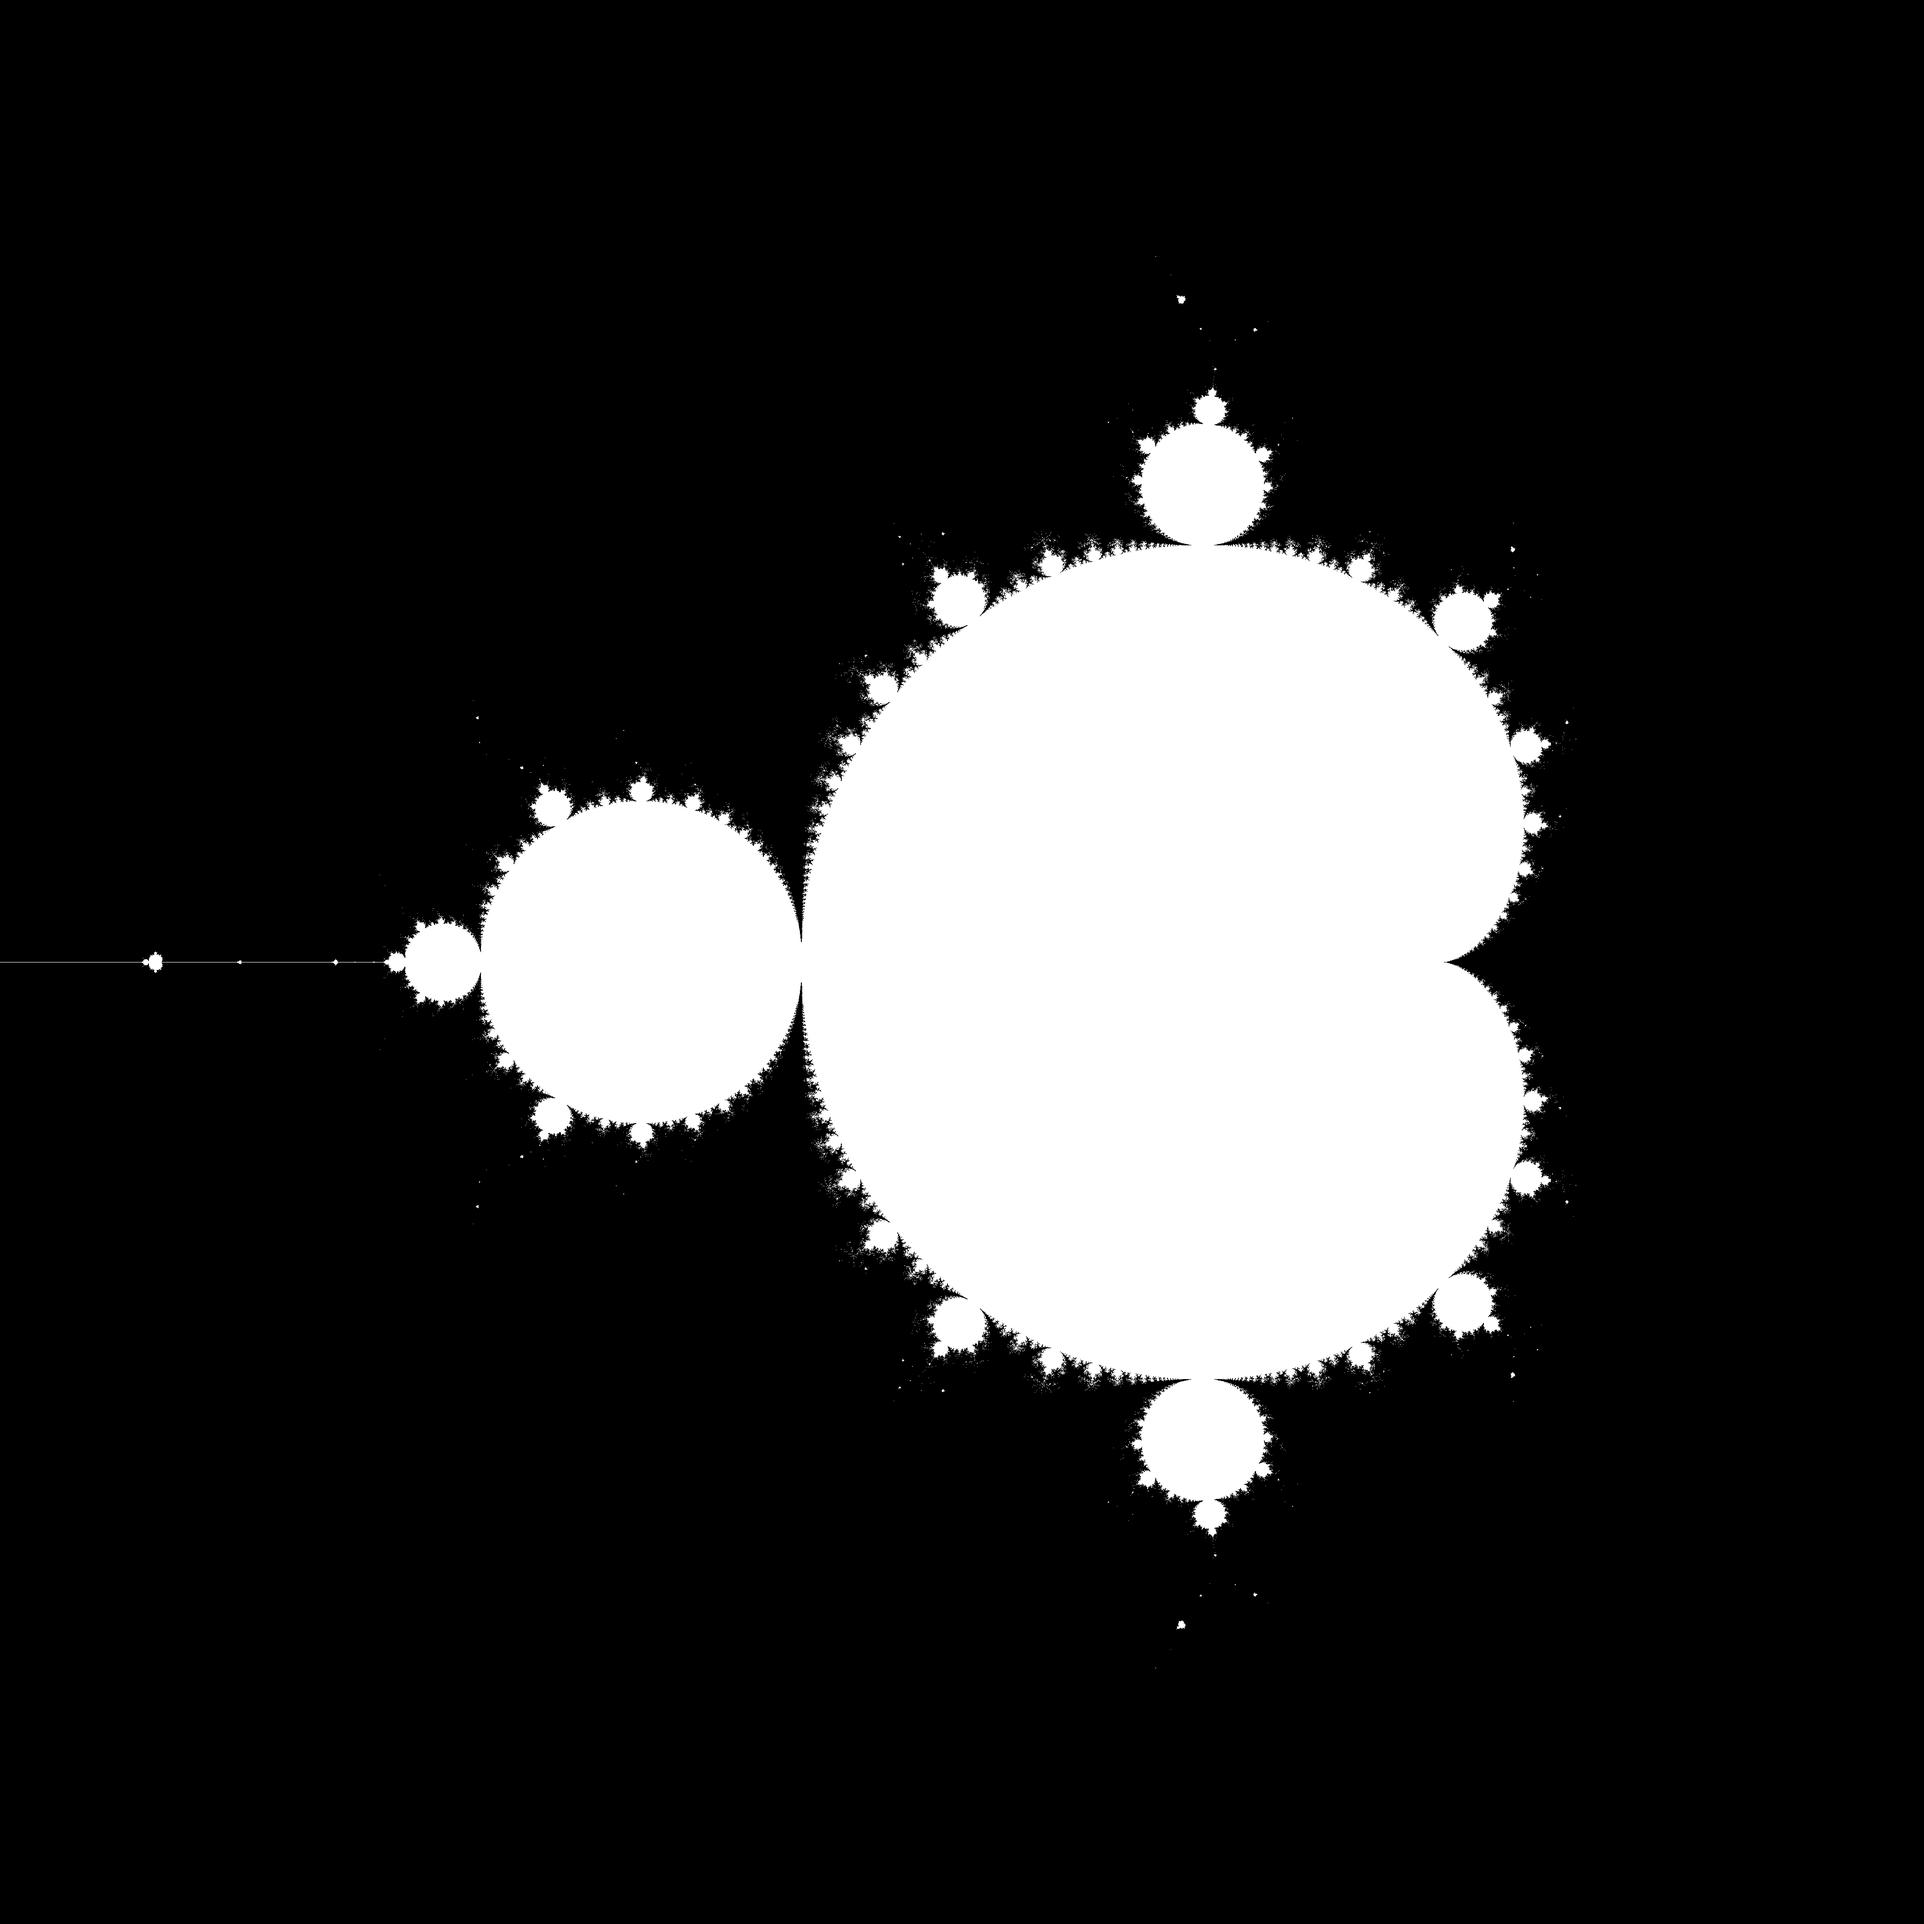
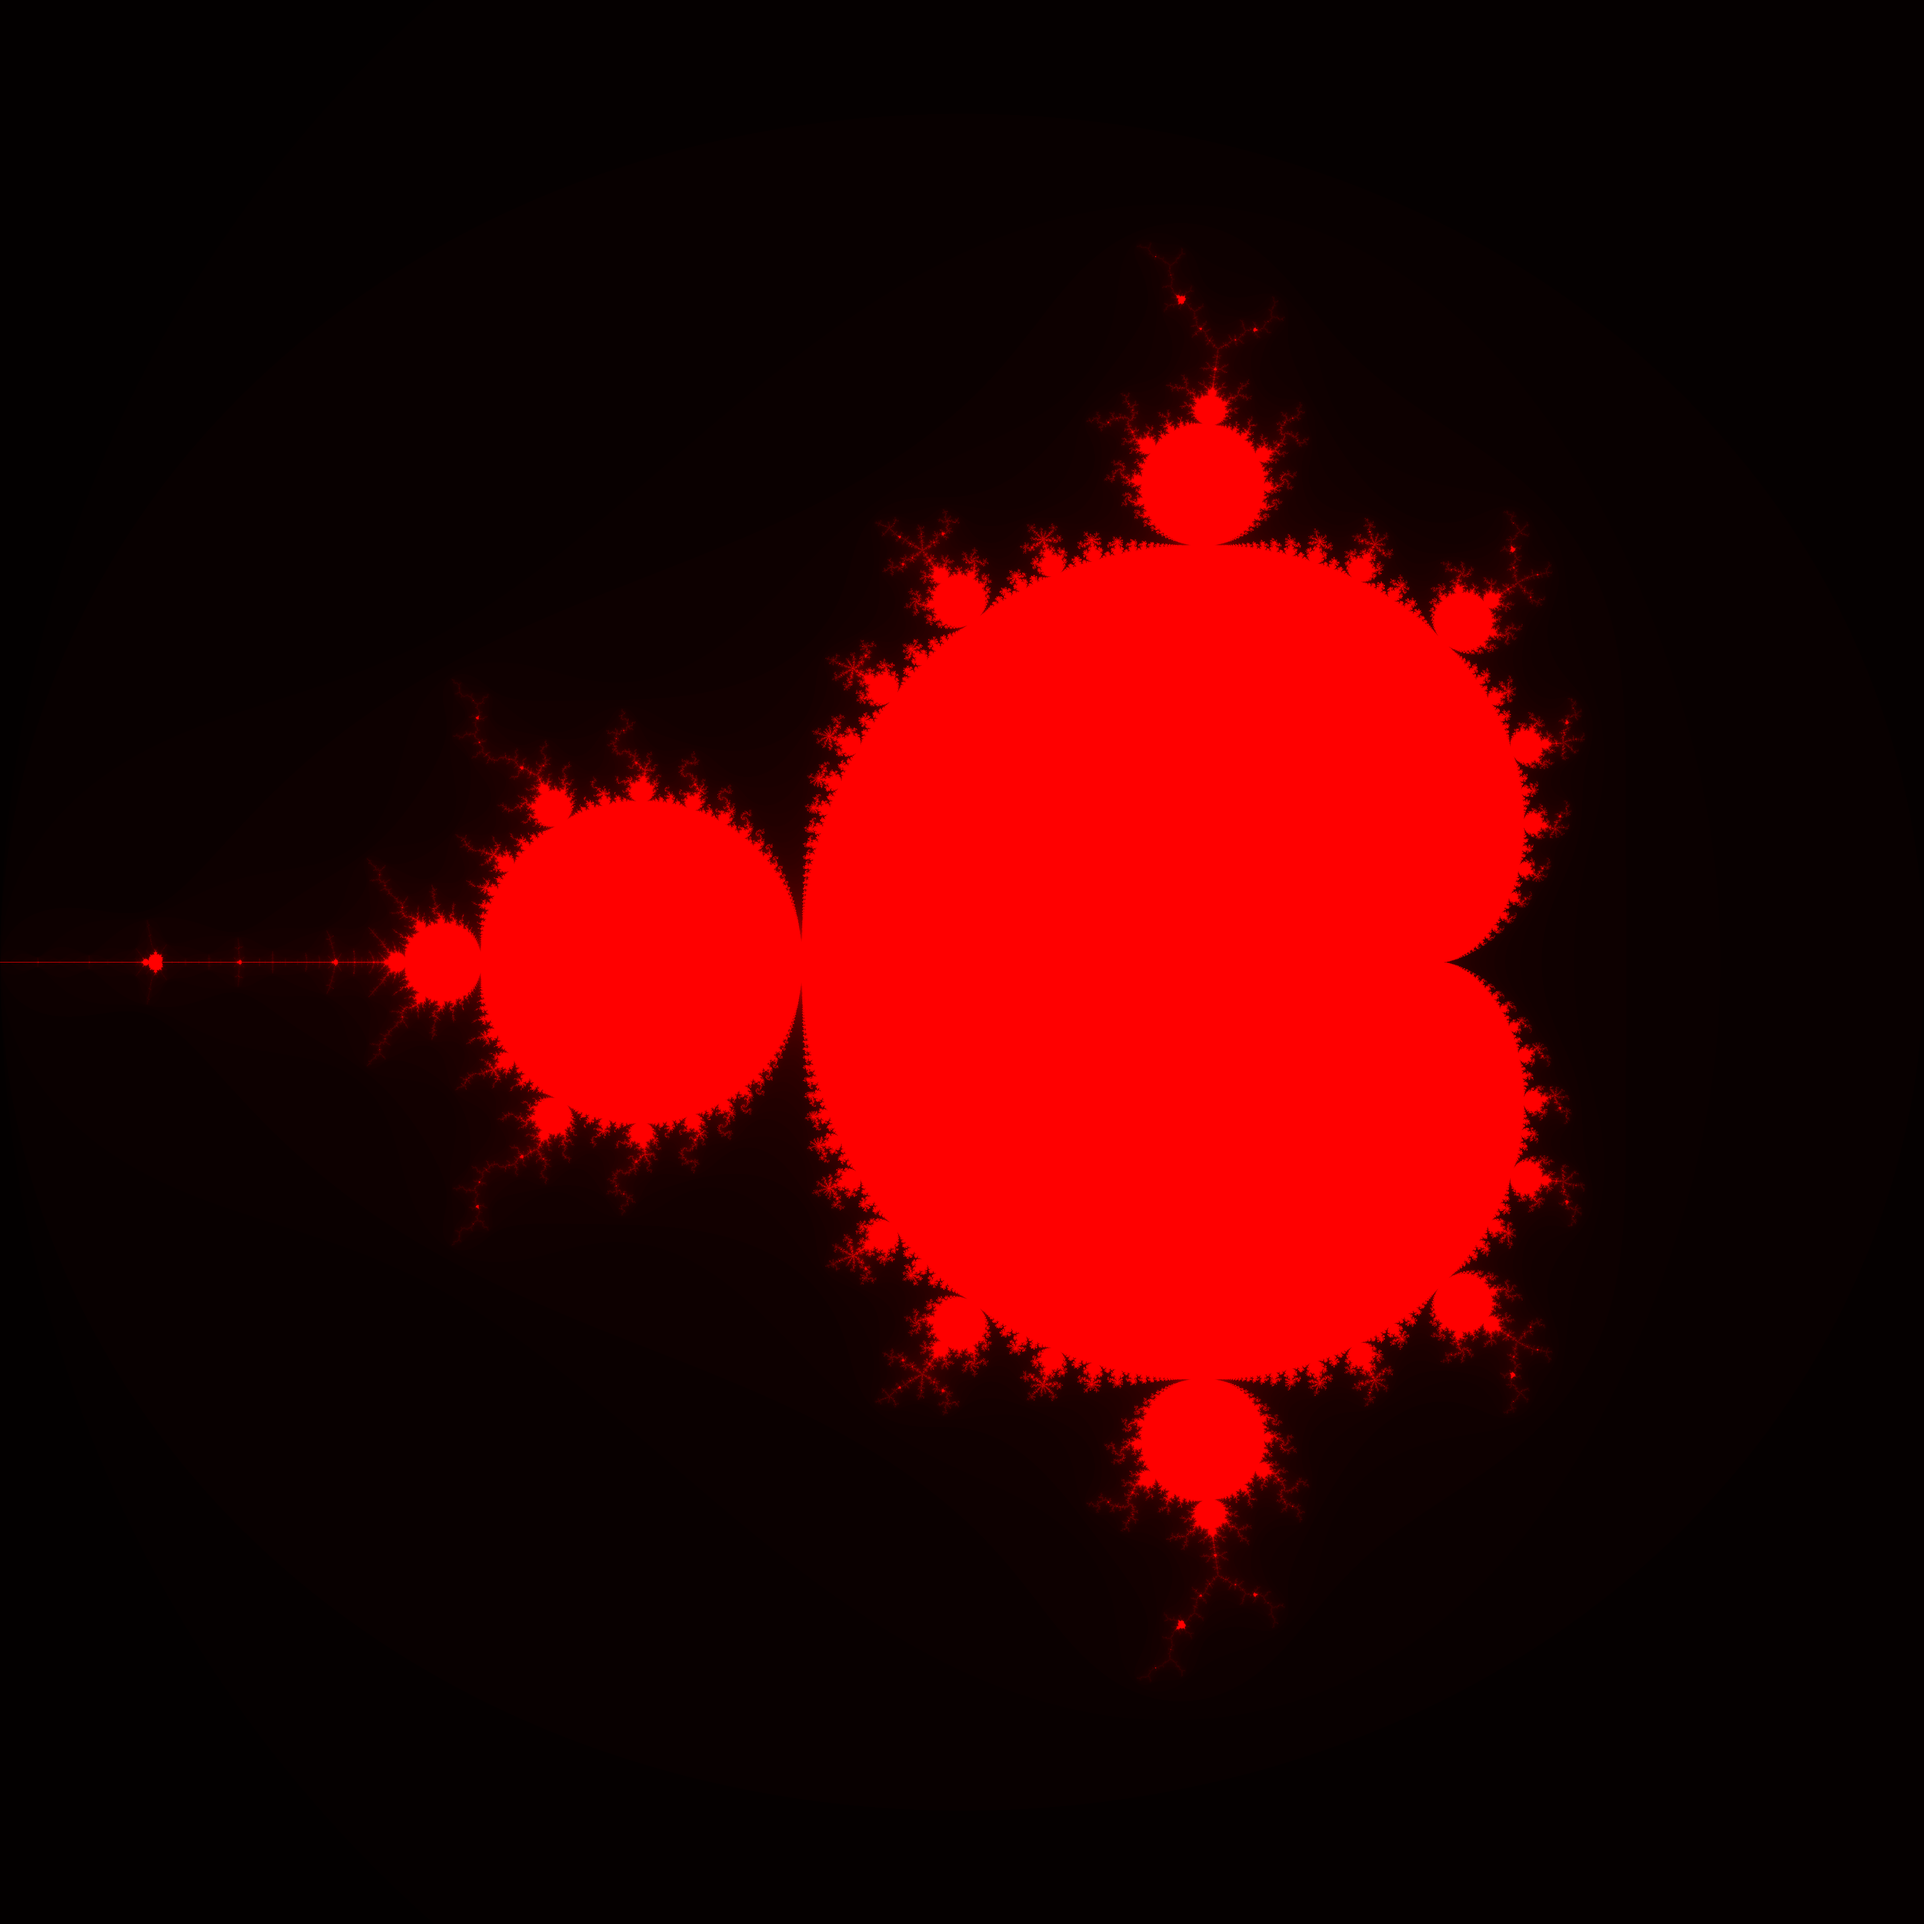
mandelbrot improvements

Changed region(s): [[0.0625, 0.125, 0.8438, 0.875]]

diff --git a/rust/mandelbrot/src/main.rs b/rust/mandelbrot/src/main.rs
@@ -8,9 +8,9 @@ fn save_img(raw_data: &Vec<f64>, h: usize, w: usize, filename: &str) {
     let mut data: Vec<u8> = vec![0; h*w*3];
 
     for i in 0..h*w {
-        for j in 0..3 {
-            data[i*3 + j] = (raw_data[i].min(1.0).max(0.0) * 255.0).round() as u8;
-        }
+        data[i*3] = (raw_data[i].min(1.0).max(0.0) * 255.0).round() as u8;
+        data[i*3+1] = 0;
+        data[i*3+2] = 0;
     }
 
     let image = RgbImage::from_raw(h as u32, w as u32, data)
@@ -27,7 +27,7 @@ fn mandel(c_re: f64, c_im: f64, max_iterations: usize, divergence_threshold: f64
 
     while count < max_iterations {
         if (z_re*z_re + z_im*z_im) > divergence_threshold {
-            return 0.0;
+            break;
         }
         z_re_new = z_re*z_re - z_im*z_im;
         z_im_new = 2.0 * z_re * z_im;
@@ -35,7 +35,7 @@ fn mandel(c_re: f64, c_im: f64, max_iterations: usize, divergence_threshold: f64
         z_im = z_im_new + c_im;
         count += 1;
     }
-    return 1.0;
+    return count as f64/max_iterations as f64;
 }
 
 fn mandelbrot_serial(x_min: f64, x_max: f64, y_min: f64, y_max: f64, img_height: usize,

diff --git a/openmp/mandelbrot/main.cpp b/openmp/mandelbrot/main.cpp
@@ -32,8 +32,8 @@ void write_matrix_to_uint8(double* data, int h, int w, std::vector<uint8_t> &ima
     {
         x = double_to_unsignedchar(data[j]);
         image[i + 0] = x;
-        image[i + 1] = x;
-        image[i + 2] = x;
+        image[i + 1] = 0;
+        image[i + 2] = 0;
         image[i + 3] = 255;
         i += 4;
     }
@@ -53,7 +53,7 @@ double mandel(double c_re, double c_im) {
     double z_re_new, z_im_new;
     while (count < MAX_ITERATIONS) {
         if ((z_re*z_re + z_im*z_im) > DIVERGENCE_THRESHOLD) {
-            return 0.0;
+            break;
         }
         z_re_new = z_re*z_re - z_im*z_im;
         z_im_new = 2.0 * z_re * z_im;
@@ -61,7 +61,7 @@ double mandel(double c_re, double c_im) {
         z_im = z_im_new + c_im;
         count += 1;
     }
-    return 1.0;
+    return double(count)/double(MAX_ITERATIONS);
 }
 
 void mandelbrot_serial(double* out) {
